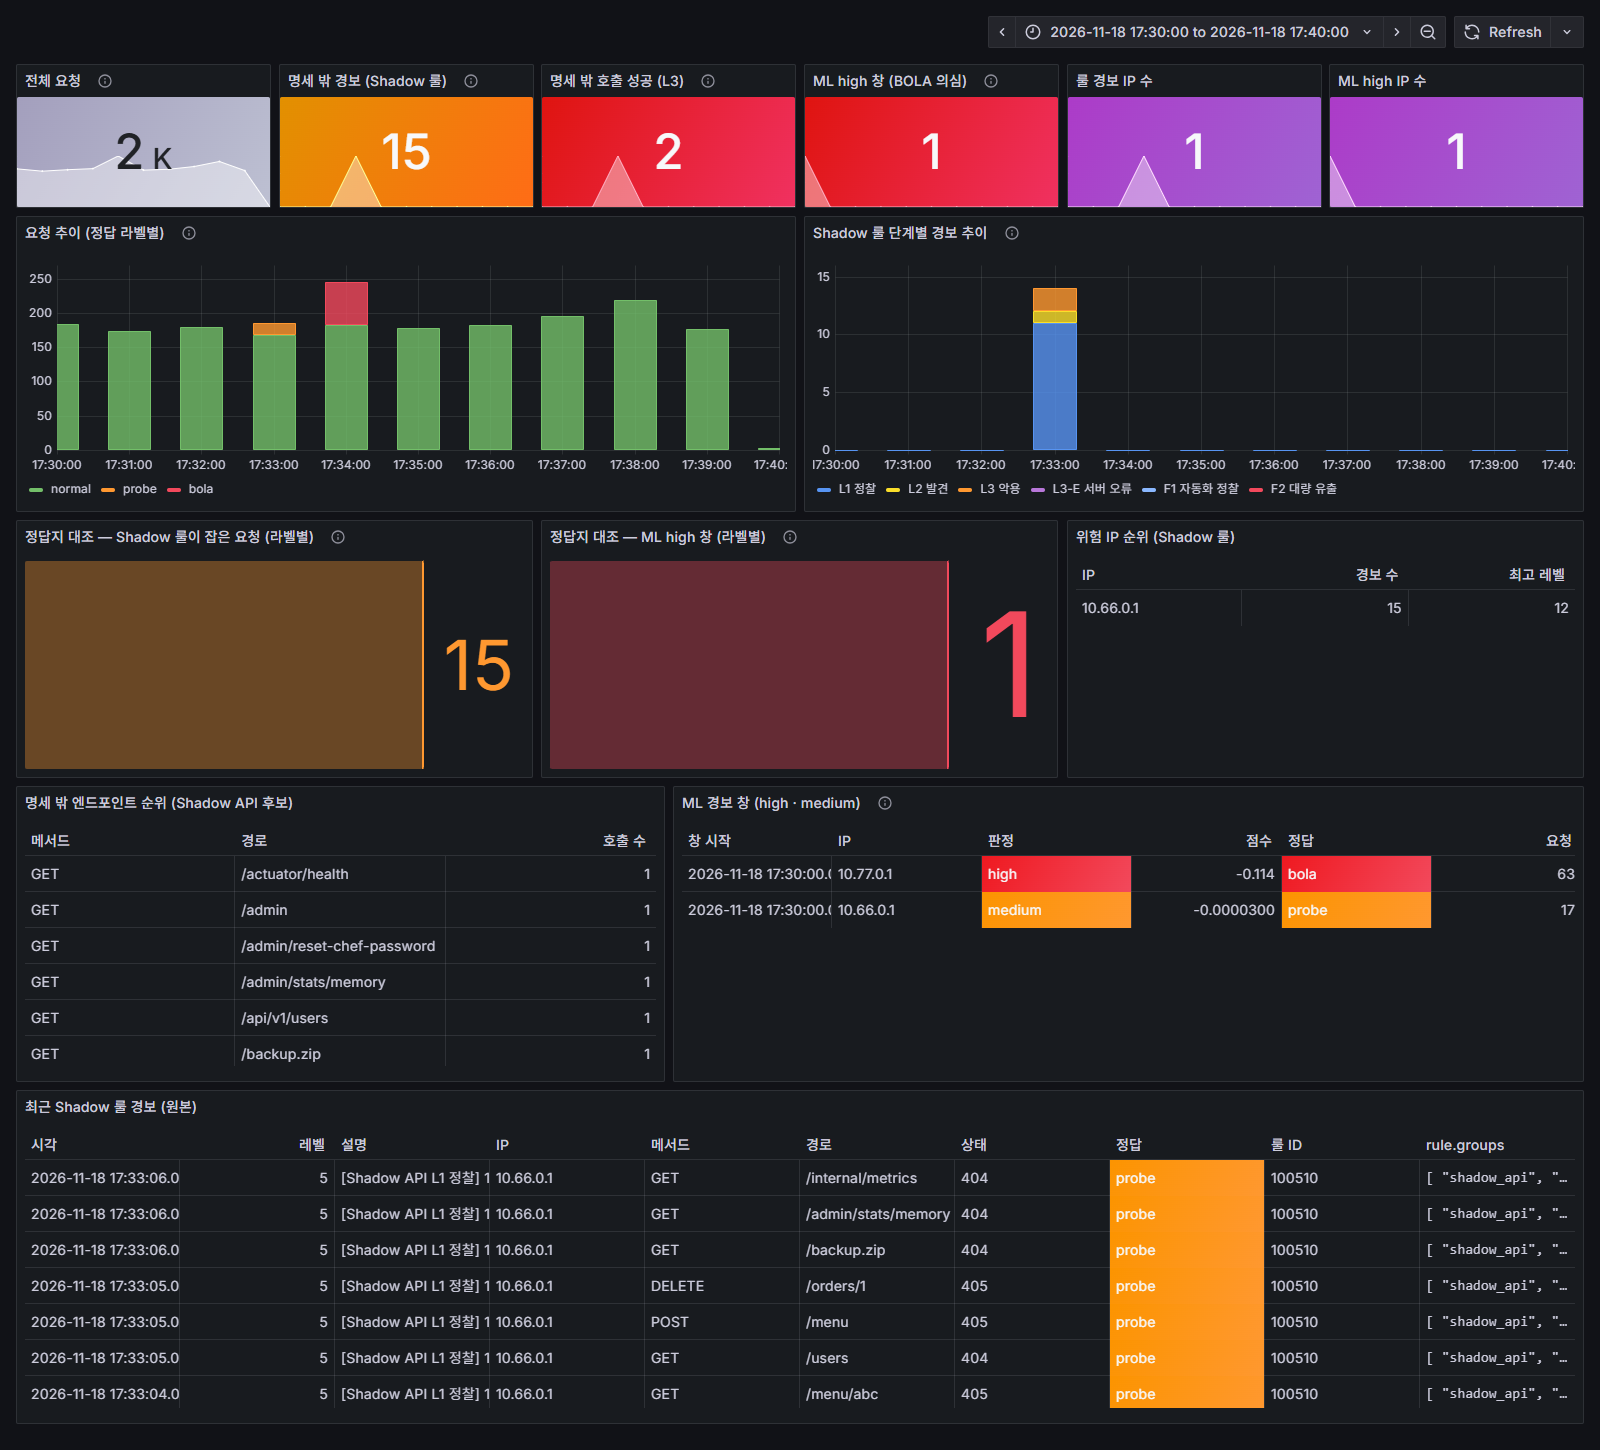
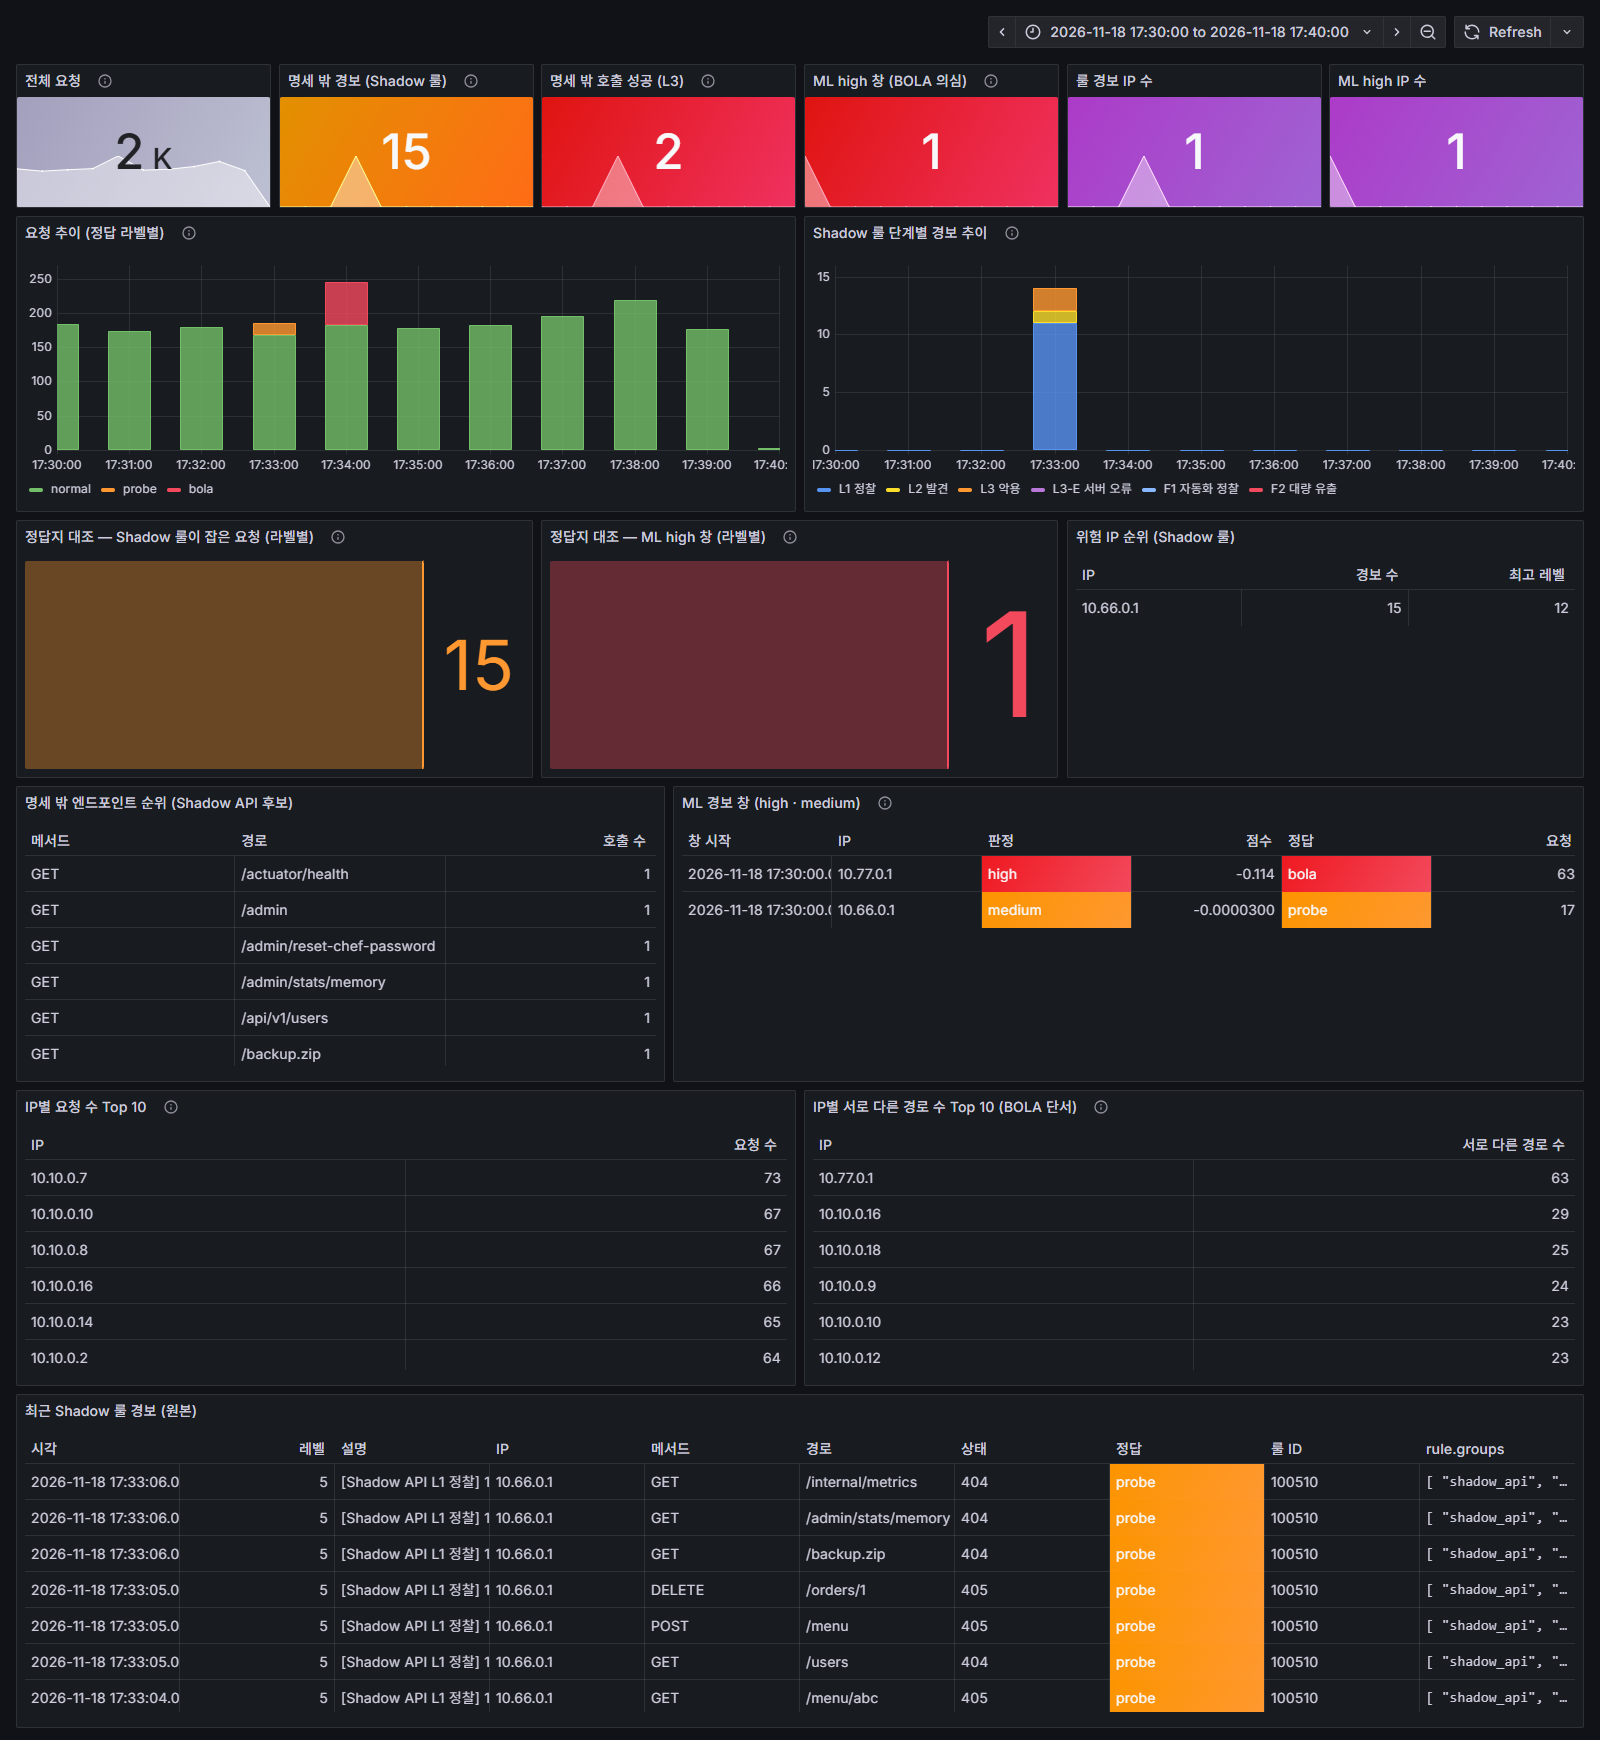
dashboard: 직접 만든 패널(요청 수 vs 서로 다른 경로 수) 코드 반영 · 팀 대시보드 비교 캡처 · README 안내

diff --git a/verify/dashboard_dvra_2026-11-18/capture_grafana.js b/verify/dashboard_dvra_2026-11-18/capture_grafana.js
@@ -13,7 +13,7 @@ const SHOTS = [
 ];
 (async () => {
   const b = await chromium.launch({ executablePath: CHROME, headless: true });
-  const p = await b.newPage({ viewport: { width: 1600, height: 1450 }, deviceScaleFactor: 1 });
+  const p = await b.newPage({ viewport: { width: 1600, height: 1950 }, deviceScaleFactor: 1 });
   for (const [name, url, full] of SHOTS) {
     await p.goto(url, { waitUntil: 'load' });
     await p.waitForTimeout(20000);

diff --git a/verify/dashboard_dvra_2026-11-18/build_dashboard.py b/verify/dashboard_dvra_2026-11-18/build_dashboard.py
@@ -152,6 +152,18 @@ panels += [
                      color_by_value("label", {"bola": "red", "probe": "orange", "normal": "green"})]),
 ]
 y += 8
+panels += [
+    table("IP별 요청 수 Top 10", 0, y, 12, 8,
+          [tgt(ACC, "*", buckets=[terms("2", "client_ip", 10)])],
+          "요청 수로 줄 세우면 BOLA 공격자(10.77.0.1)는 안 보인다 — 전체 31위, 공격 10분 13위",
+          rename={"client_ip": "IP", "Count": "요청 수"}),
+    table("IP별 서로 다른 경로 수 Top 10 (BOLA 단서)", 12, y, 12, 8,
+          [tgt(ACC, "*", metrics=[{"id": "1", "type": "cardinality", "field": "path"}],
+               buckets=[terms("2", "client_ip", 10, order_by="1")])],
+          "서로 다른 경로(객체) 수로 줄 세우면 BOLA 공격자가 1위 — 공격 10분 63 vs 2위 29",
+          rename={"client_ip": "IP", "Unique Count": "서로 다른 경로 수"}),
+]
+y += 8
 # (sortBy 는 organize 뒤에 오므로 바뀐 이름으로 정렬한다)
 # ── 5줄: 원본 ─────────────────────────────────────────────────────────────────
 panels += [

diff --git a/verify/dashboard_dvra_2026-11-18/README.md b/verify/dashboard_dvra_2026-11-18/README.md
@@ -9,6 +9,36 @@ DVRA ML 2차 수집([`../dvra/ml_run2_2026-11-18/`](../dvra/ml_run2_2026-11-18/R
 
 ![공격 구간](screenshots/02_attack_window.png)
 
+## 팀 대시보드와 비교
+
+![팀 대시보드 vs 내 대시보드](screenshots/04_team_vs_mine.png)
+
+| | 팀 대시보드 (2026-11-09 시연) | 내 대시보드 (2026-11-18) |
+|---|---|---|
+| 대상 | 팀 앱 (PHP 쇼핑몰, `/api/v1/users/{id}` BOLA) | **처음 보는 앱 DVRA** (설정만 바꿔 적용) |
+| 데이터 | 실시간 Wazuh 경보 · 아카이브 (OpenSearch) | 끝난 수집을 **실제 `wazuh-logtest`** 에 통과시킨 판정 + ML 창 점수 (Elasticsearch) |
+| 탐지 | 명세 대조 룰 (미등록 API 호출 · 응답) | 명세 대조 룰 + **ML(BOLA, 명세 안의 경로)** |
+| 강점 | **대응까지 연결** — SOAR 승인 대기 · 자동 차단 · 계층별 차단(IDS/IPS · WAF · SIEM) | **정답지 대조** — 룰과 ML 이 각각 무엇을 잡았나, 오탐이 어디서 나왔나 |
+| 없는 것 | ML · 정답 라벨 | 대응(차단) · 실시간 · IDS/WAF 비교 |
+| 만든 방식 | 영상 속 통합 대시보드는 만든 방식 기록 없음 · 팀 레포의 "Shadow API 탐지" 대시보드는 생성기(`build_dashboard.py`) | **코드** (`build_dashboard.py` → 프로비저닝) |
+
+팀 화면의 BOLA 는 `/api/v1/users/{id}` 가 **명세 밖**(Shadow API)이라 명세 대조 룰로 잡혔다. DVRA 의 BOLA 는 **명세 안의** `/orders/{id}` 라 룰로는 안 잡히고 ML 이 잡는다 — 두 화면이 맡는 공격이 다르다.
+
+## 직접 만든 패널 — 요청 수 vs 서로 다른 경로 수 (2026-11-18 실습)
+
+![직접 만든 패널](screenshots/03_my_panels.png)
+
+Grafana 화면에서 직접 쿼리를 만들고(Terms `client_ip` · Count → Unique Count `path`), 같은 내용을 `build_dashboard.py` 에 코드로 옮겨 넣었다.
+
+| 줄 세운 기준 | BOLA 공격자(10.77.0.1) 순위 |
+|---|---|
+| 요청 수, 전체 73분 | 31위 (63건 — 정상 사용자는 1인당 약 430건) |
+| 요청 수, 공격 10분 | 13위 (정상 사용자도 그 10분에 60~73건) |
+| **서로 다른 경로 수, 공격 10분** | **1위 — 63 vs 2위 29** |
+
+- **요청량으로는 BOLA 를 못 찾는다.** 무엇을 열었나(서로 다른 객체 수)로 봐야 한다 — ML 특징 `id_span_log` 를 쓰는 이유.
+- 실습 중 표의 정렬이 두 번 **IP 글자 순서(Term)** 로 돼 있어 공격자가 1위처럼 보였다. 표는 정렬 기준부터 확인한다.
+
 ## 무엇을 보여 주나
 
 | 줄 | 패널 | 데이터 |
@@ -47,7 +77,7 @@ build_dashboard.py ──▶ grafana/dashboards/dvra_detection.json ────
 | `run_logtest.sh` | 접근 로그 전체를 Wazuh 컨테이너의 `wazuh-logtest` 에 넣고 출력 저장 |
 | `score_windows.py` | 2차 모델로 모든 IP × 5분 창 채점 (e2e-runner 컨테이너) |
 | `to_es.py` | 로그 · logtest 판정 · ML 점수 → ES 인덱스 3개 (Wazuh alerts 모양: `rule.*` · `data.*`) |
-| `build_dashboard.py` | 대시보드 JSON 생성 (패널 14개) |
+| `build_dashboard.py` | 대시보드 JSON 생성 (패널 16개 — 14개 + 직접 만든 2개) |
 | `grafana/provisioning/` | 데이터 소스 3개 · 대시보드 폴더 자동 등록 |
 | `capture_grafana.js` | 헤드리스 Chrome 캡처 |
 | `data/` | 입력 로그(정상 · 공격 IP 만), logtest 출력(gz), ML 창 점수 |
@@ -65,7 +95,7 @@ docker run -d --name es-local --net elk-local -p 127.0.0.1:9200:9200 -e discover
 python to_es.py --log data/access_dvra_run2.log --logtest data/logtest_out.txt --ml data/ml_windows.csv
 #   예상: dvra-access 12,576건 · wazuh-alerts-dvra 17건 · dvra-ml 446건 (오류 0)
 
-python build_dashboard.py                    # 예상: 패널 14개
+python build_dashboard.py                    # 예상: 패널 16개
 MSYS_NO_PATHCONV=1 docker run -d --name grafana-dvra --network elk-local -p 127.0.0.1:3000:3000 \
   -e GF_AUTH_ANONYMOUS_ENABLED=true -e GF_AUTH_ANONYMOUS_ORG_ROLE=Admin -e GF_AUTH_DISABLE_LOGIN_FORM=true \
   -v "$(pwd -W)/grafana/provisioning:/etc/grafana/provisioning:ro" -v "$(pwd -W)/grafana/dashboards:/var/lib/grafana/dashboards:ro" grafana/grafana:11.6.0

diff --git a/README.md b/README.md
@@ -144,6 +144,12 @@
 
 ![DVRA 대시보드 — 탐색은 룰이, BOLA 는 ML 이](verify/dashboard_dvra_2026-11-18/screenshots/02_attack_window.png)
 
+요청 수로 줄 세우면 BOLA 공격자는 공격 10분 동안에도 13위지만, **서로 다른 경로 수**로 보면 63 vs 2위 29 로 1위다 — 탐지 특징을 요청량이 아니라 객체 접근 다양성으로 잡은 이유.
+
+![직접 만든 패널](verify/dashboard_dvra_2026-11-18/screenshots/03_my_panels.png)
+
+팀 시연 대시보드(대응 · SOAR 중심)와 나란히: [`04_team_vs_mine.png`](verify/dashboard_dvra_2026-11-18/screenshots/04_team_vs_mine.png)
+
 상세: [`verify/dvra/`](verify/dvra/README.md) · [`verify/vampi/`](verify/vampi/README.md) · [`automate/portable-workflow-v2.1/`](automate/portable-workflow-v2.1/README.md) · 대시보드(코드화) [`verify/dashboard_dvra_2026-11-18/`](verify/dashboard_dvra_2026-11-18/README.md) · **ML 최종 정리 [`ml/FINAL_v1.0.md`](ml/FINAL_v1.0.md)**
 
 > **v1 제품 정의서:** [PRODUCT_V1.md](PRODUCT_V1.md) — 누가 쓰나 · v1 범위 · 성공 기준 7개와 현재 상태
